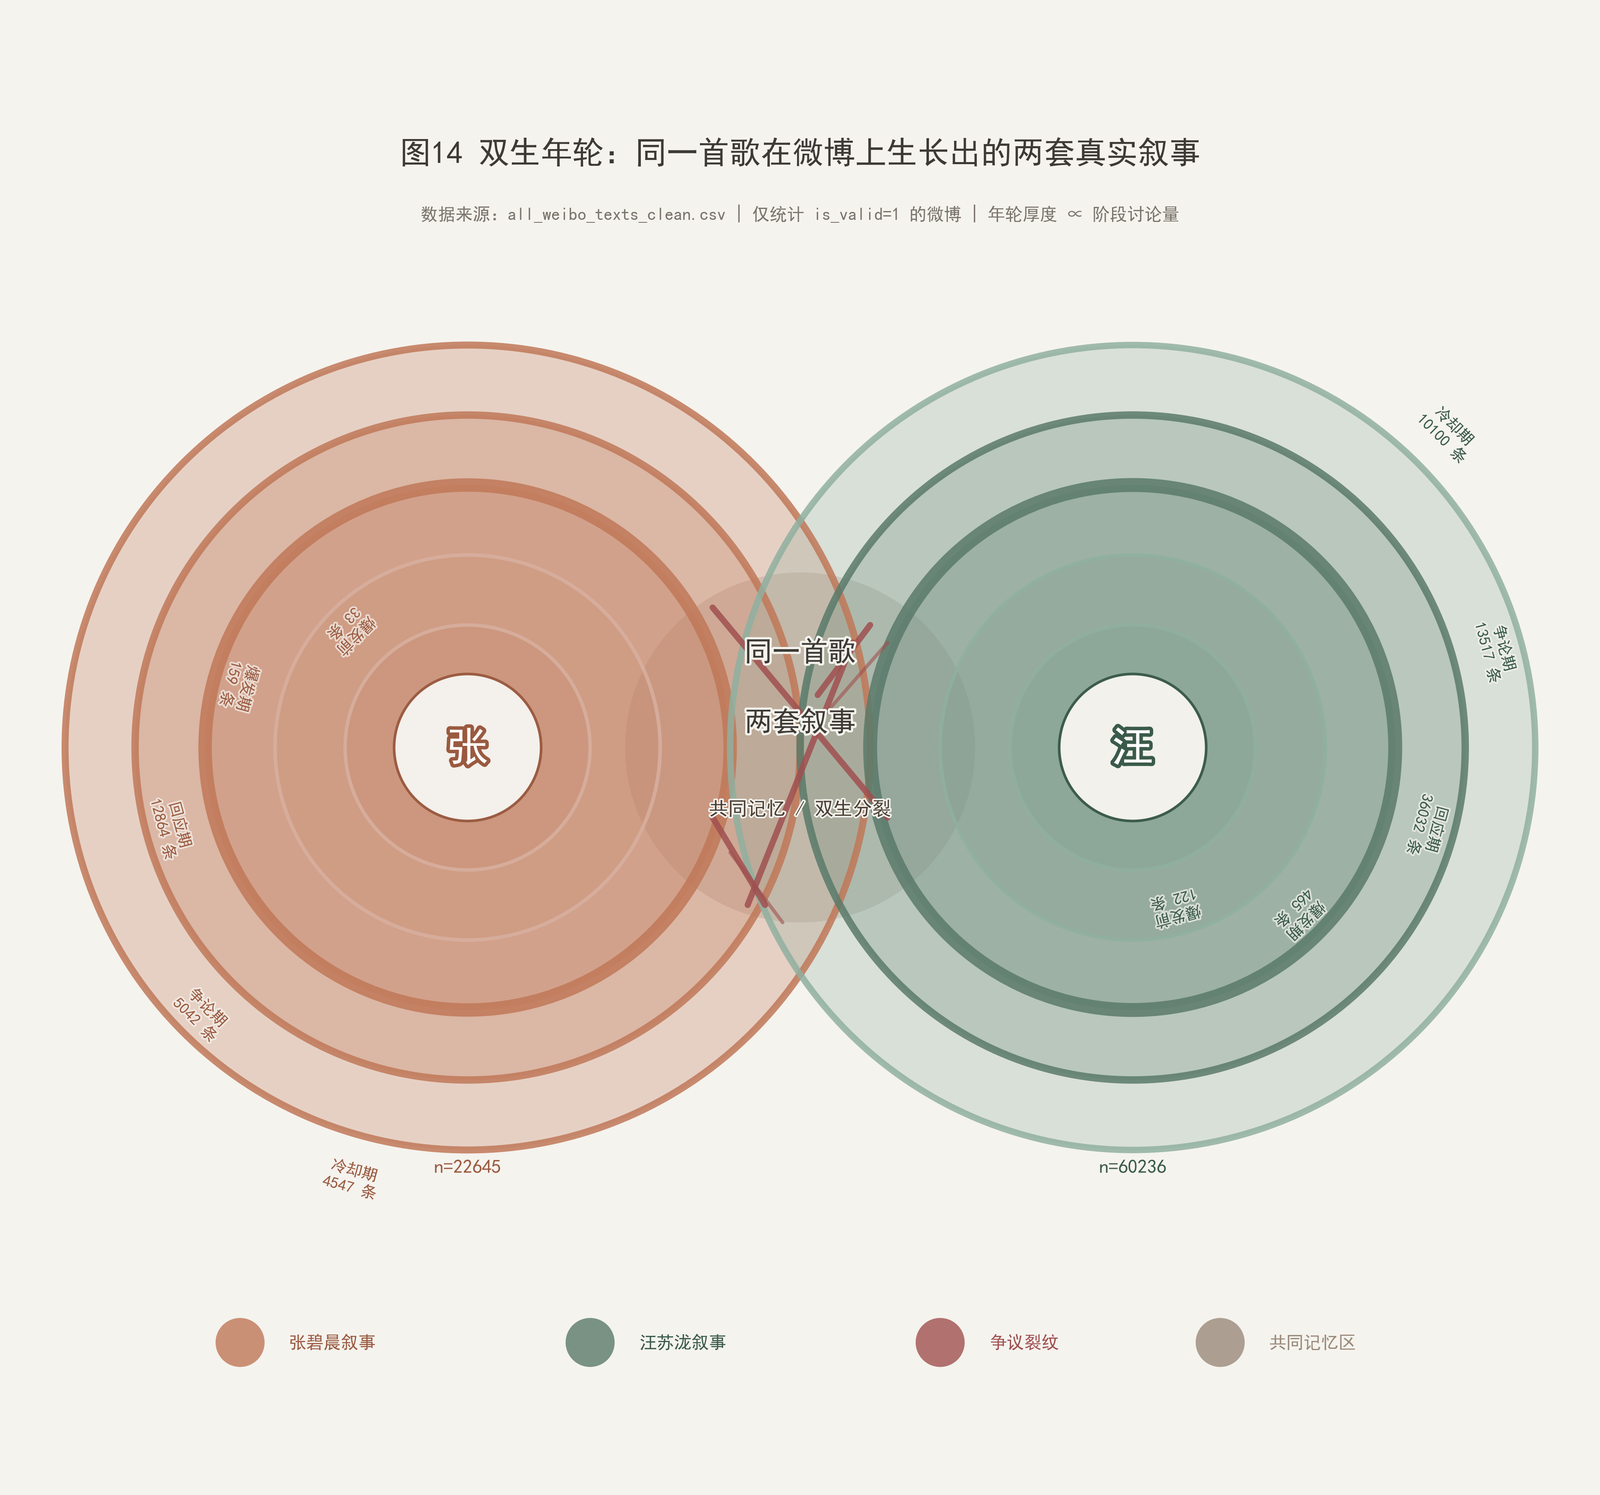
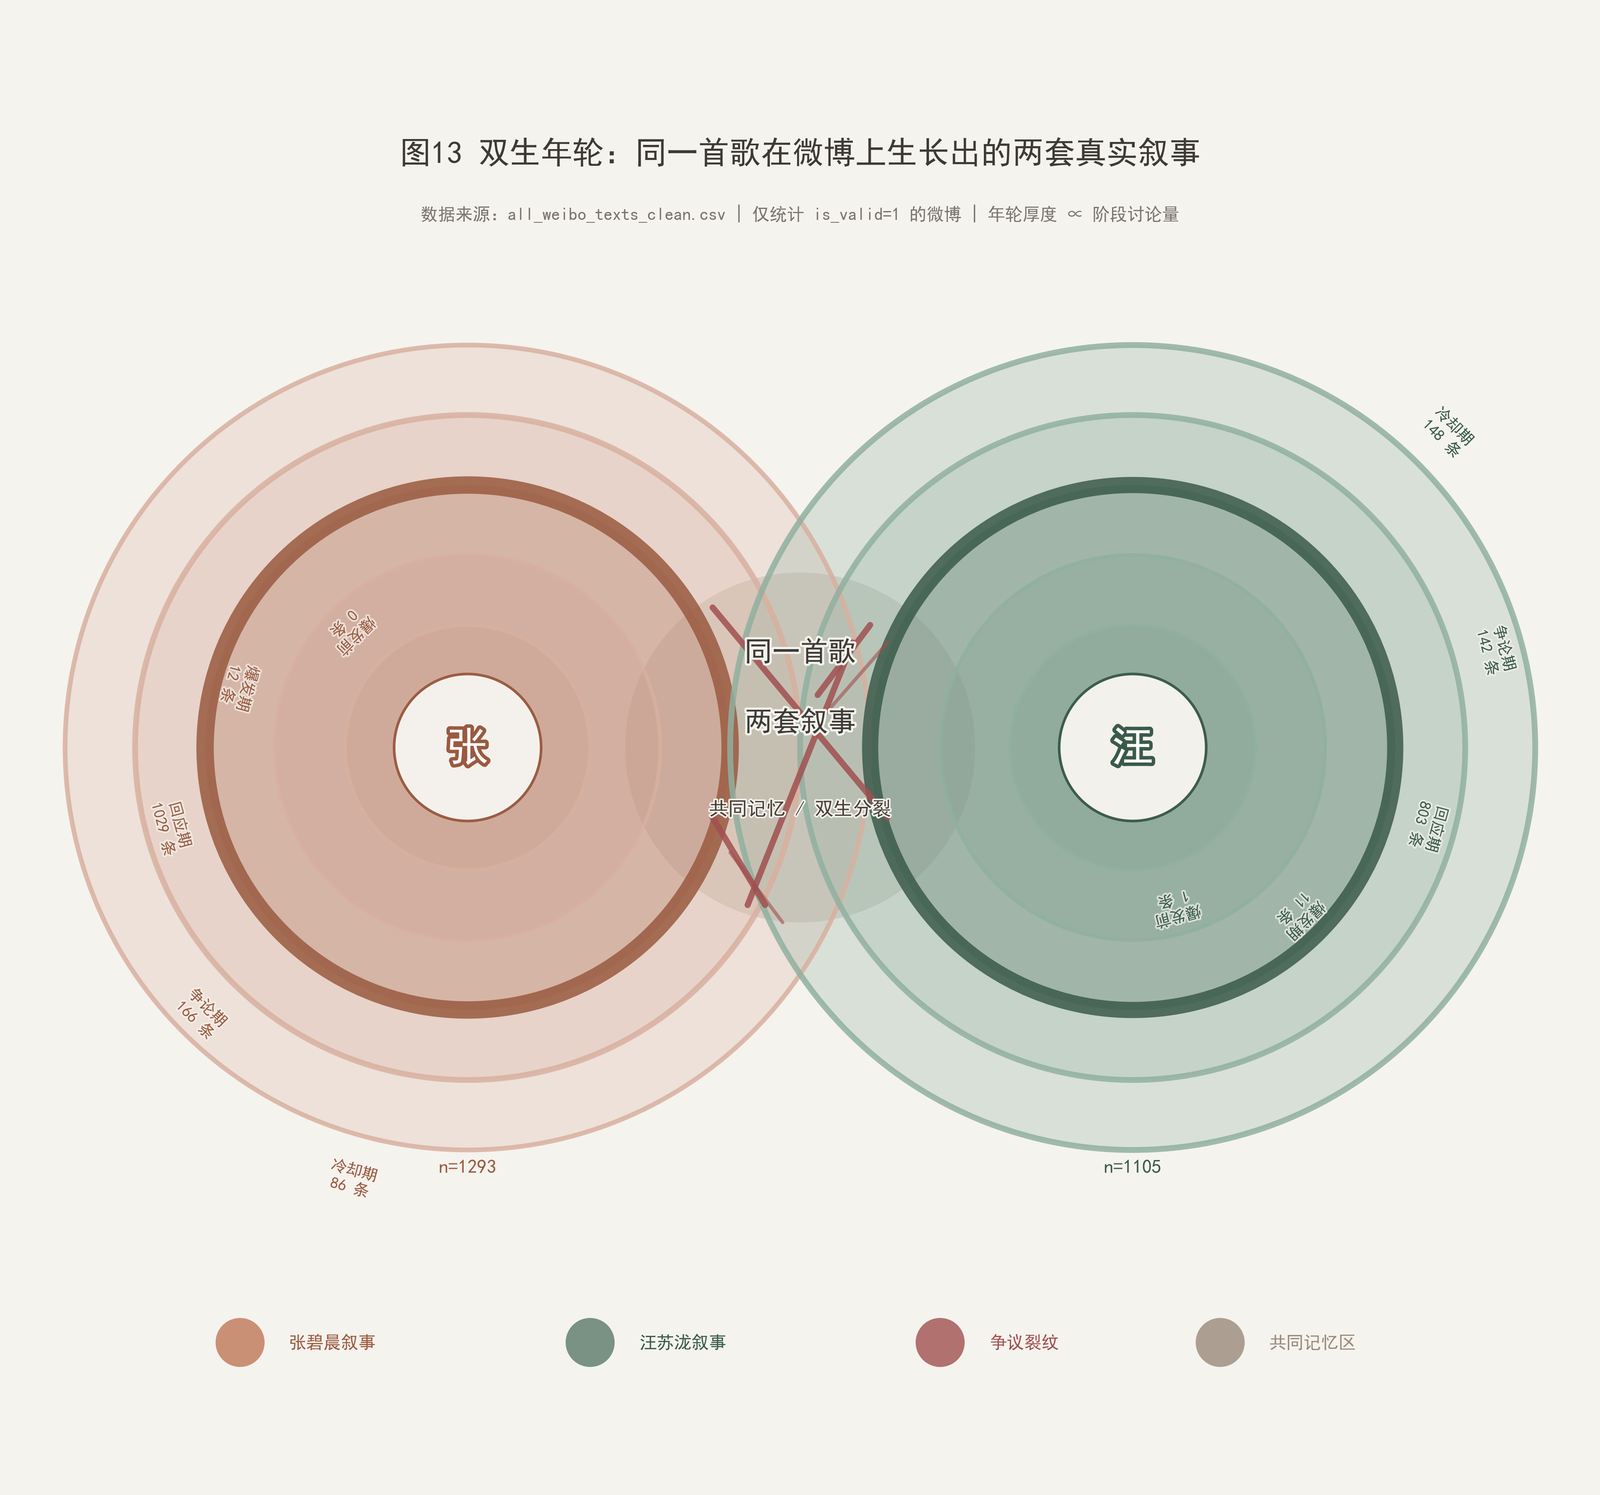
优化文档排版格式，更新主视觉图

diff --git a/05_docs/文档/项目文档.md b/05_docs/文档/项目文档.md
@@ -50,7 +50,7 @@ Markdown（本报告）、HTML / CSS（Dashboard 仪表盘）
 | B | 宋薇 | 微博评论抓取 | 从 A 的高互动主帖（赞/评/转 >100）下爬取评论区，含一级评论+部分二级回复，五人分片协作完成 | 130,419 条 | `weibo_comments_clean.csv`（5片） |
 | C | 陈子怡 | 微博转发链追踪 | 选取 10–20 条关键主帖，逐层爬取转发链（who→whom→when），构建多级传播网络 | 2,636 条转发 + 3,801 条边 + 3,002 个节点 | `weibo_reposts_clean.csv`、`repost_edges_multihop.csv`、`repost_nodes_multihop.csv` |
 | D | 张欣 | 跨平台数据收集 | 在 B站、抖音、知乎、豆瓣、QQ音乐 五个平台搜索"年轮""原唱"等关键词，抓取视频/帖子+热评，覆盖不同社区生态 | 2,862 条（知乎 1,921 / 豆瓣 878 / B站 36 / 抖音 27 / QQ音乐 492） | `platform_cases_clean.csv`、`qqmusic_comments_clean.csv` |
-| E | 严宇畅 | 全量数据清洗与标注 | 合并五人的原始 CSV，统一列名+去重+文本清洗；定义 stance（立场）/ frame（叙事框架）/ emotion（情绪）/ event_stage（事件阶段）四维标注体系，编写标注规则 `label_rules.xlsx`，结合正则+启发式+LLM 完成全量标注 | 140,485 条（三块合并） | 6 个 clean 文件 + `label_rules.xlsx` |
+| E | 严宇畅 | 全量数据清洗与标注 | 合并五人的原始 CSV，统一列名+去重+文本清洗；定义 stance（立场）/ frame（叙事框架）/ emotion（情绪）/ event_stage（事件阶段）四维标注体系，结合正则+启发式+LLM 完成全量标注 | 140,485 条（三块合并） |  clean 文件  |
 
 ### 可视化分工（17张图）
 
@@ -66,9 +66,9 @@ Markdown（本报告）、HTML / CSS（Dashboard 仪表盘）
 
 | 任务 | 负责人 | 交付物 |
 |------|:---:|------|
-| PPT 第1部分 | A 平倩如 | `1.ppt` |
-| PPT 第2部分 | C 陈子怡 | `2.ppt` |
-| HTML 仪表盘整合 | E 严宇畅 | `3.html` |
+| PPT 第1部分 | A 平倩如 | `ppt` |
+| PPT 第2部分 | C 陈子怡 | `ppt` |
+| HTML 仪表盘整合 | E 严宇畅 | `html` |
 | 项目文档书写 | D 张欣 | `项目文档.md`（本文档） |
 | 项目文件整理 + 现场演讲 | B 宋薇 | 文件打包 + 答辩 |
 
@@ -243,7 +243,7 @@ Markdown（本报告）、HTML / CSS（Dashboard 仪表盘）
 
 ### 结论
 
-争议的传播是典型的"**引爆→递减→冷却**"模式，但有两个反直觉的发现。第一，**58% 的讨论集中在 48 小时内**——这不是一场持续两个月的讨论，而是一次 48 小时的集体情绪爆发，后面近两个月的"讨论"只是余震。第二，**评论和转发的时间错位揭示了公众从"吃瓜"到"站队"的行为转换**：7月22-24日人们转发新闻（"发生什么了？"），7月25-26日人们涌入评论区表达立场（"我站谁"）。这个 2-3 天的窗口期，就是舆论从信息扩散切换到立场表达的拐点。
+争议的传播是典型的"**引爆→递减→冷却**"模式，但有两个反直觉的发现。第一，**58% 的讨论集中在 48 小时内**——这不是一场持续两个月的讨论，而是一次 48 小时的集体情绪爆发，后面近两个月的"讨论"只是余震。第二，**发帖和评论的时间错位揭示了公众从"吃瓜"到"站队"的行为转换**：7月22-24日人们发帖讨论（"发生什么了？"），7月25-26日人们涌入评论区表达立场（"我站谁"）。这个 2-3 天的窗口期，就是舆论从信息扩散切换到立场表达的拐点。
 
 ---
 